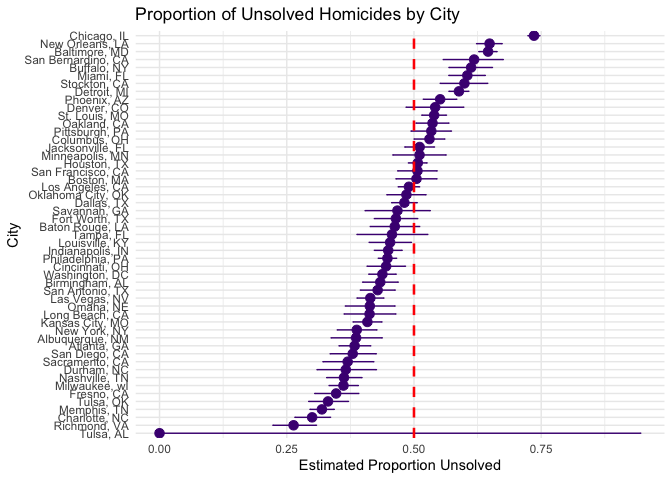
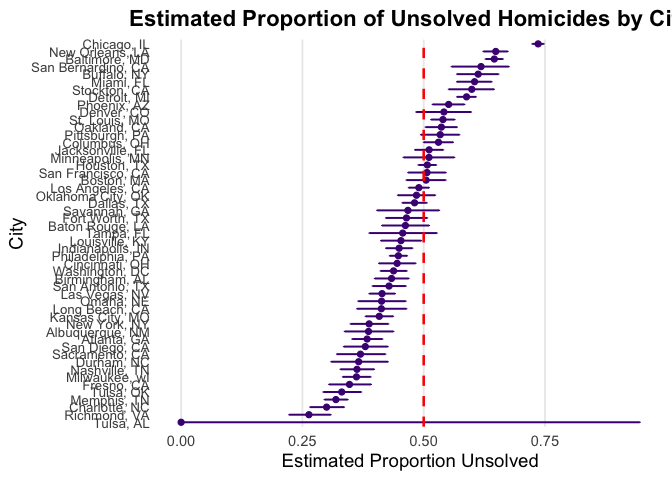
Final commit

Changed region(s): [[0.0312, 0.0, 1.0, 1.0], [0.0, 0.4375, 0.0312, 0.5312]]

diff --git a/p8105_HW5_sp4436.md b/p8105_HW5_sp4436.md
@@ -83,10 +83,10 @@ bday_results |>
 
 ![](p8105_HW5_sp4436_files/figure-gfm/Probability%20Plot-1.png)<!-- -->
 
-The probability of observing at least one shared birthday increases
-nonlinearly as group size grows. It is nearly zero for small groups
-(fewer than 10 people) and it rises quickly afterward. Around 23 people
-the probability exceeds 50%, and by 40 people it is above 90%.
+The probability of at least one shared birthday increases rapidly with
+group size. Around 23 people, the probability exceeds 50%, and by 50
+people it is over 95%. It is nearly zero for small groups (fewer than 10
+people) and it rises quickly afterward.
 
 ## Problem 2
 
@@ -213,15 +213,12 @@ combined |>
 
 ![](p8105_HW5_sp4436_files/figure-gfm/mu%20plots-1.png)<!-- -->
 
-The black line shows that the sample mean is an unbiased estimator.
-across all simulations, the average estimate closely matches the true
-value of μ. The purple line showing the average estimate only among
-tests that reject the null is biased upward when μ is small. This occurs
-because low effect sizes produce low power and conditioning on
-significance (p \< 0.05) captures the unusually large positive sample
-means that generate rejection. As μ increases and power approaches 100%,
-nearly all samples reject the null, causing the conditional (purple) and
-unconditional (black) averages to converge toward the true μ.
+The black line shows that the sample mean is an unbiased estimator:
+across all simulations, the average μ̂ closely matches the true μ. The
+purple line, which conditions on rejecting the null, is biased upward
+for small μ because only unusually large samples yield p \< 0.05. As μ
+grows and power approaches 100%, the conditional and unconditional
+averages converge.
 
 ## Problem 3
 
@@ -248,6 +245,10 @@ The raw data has 52179 observations with 12 variables: `uid`,
 `reported_date`, `victim_last`, `victim_first`, `victim_race`,
 `victim_age`, `victim_sex`, `city`, `state`, `lat`, `lon`,
 `disposition`. There are 120 NAs between `lat` and `lon`.
+
+The dataset includes victim demographics (name, age, sex, race),
+incident date, location (city and state), geographical coordinates, and
+case disposition.
 
 ``` r
 city_summary =
@@ -348,7 +349,6 @@ bal
     ## 1    0.646      239. 6.46e-54         1    0.628     0.663 1-sample… two.sided
 
 ``` r
-#For each city, run a prop.test using unsolved_homicides and total_homicides
 city_tests =
   city_summary |>
   mutate(
@@ -395,31 +395,47 @@ city_tests_ordered =
   arrange(estimate) |>
   mutate(city_state = factor(city_state, levels = city_state))
 
-ggplot(city_tests_ordered, aes(x = city_state, y = estimate)) +
-  
-  geom_point(color = "#4B0082", size = 3) +
+ggplot(city_tests_ordered, aes(
+  x = estimate,
+  y = reorder(city_state, estimate))
+  ) +
   
   geom_errorbar(
-    aes(ymin = conf.low, ymax = conf.high),
+    aes(xmin = conf.low, xmax = conf.high),
+    orientation = "y",
     width = 0.15,
+    color = "#4B0082",
+    linewidth = 0.7
+  ) +
+
+  #point estimates
+  geom_point(
+    size = 1.7,
     color = "#4B0082"
   ) +
-  
-  #Dashed line at 0.50
-  geom_hline(
-    yintercept = 0.50,
-    color = "red",
+
+  #0.50 reference line
+  geom_vline(
+    xintercept = 0.50,
     linetype = "dashed",
+    color = "red",
     linewidth = 0.9
   ) +
-  
-  coord_flip() +
+
   labs(
-    title = "Proportion of Unsolved Homicides by City",
-    x = "City",
-    y = "Estimated Proportion Unsolved"
+    title = "Estimated Proportion of Unsolved Homicides by City",
+    x = "Estimated Proportion Unsolved",
+    y = "City"
   ) +
-  theme_minimal()
+
+  theme_minimal(base_size = 14) +
+  theme(
+    panel.grid.major.y = element_blank(),
+    panel.grid.minor = element_blank(),
+    axis.text.y = element_text(size = 10),
+    axis.text.x = element_text(size = 11),
+    plot.title = element_text(face = "bold", hjust = 0.5)
+  )
 ```
 
 ![](p8105_HW5_sp4436_files/figure-gfm/Plot%20all%20Cities-1.png)<!-- -->
